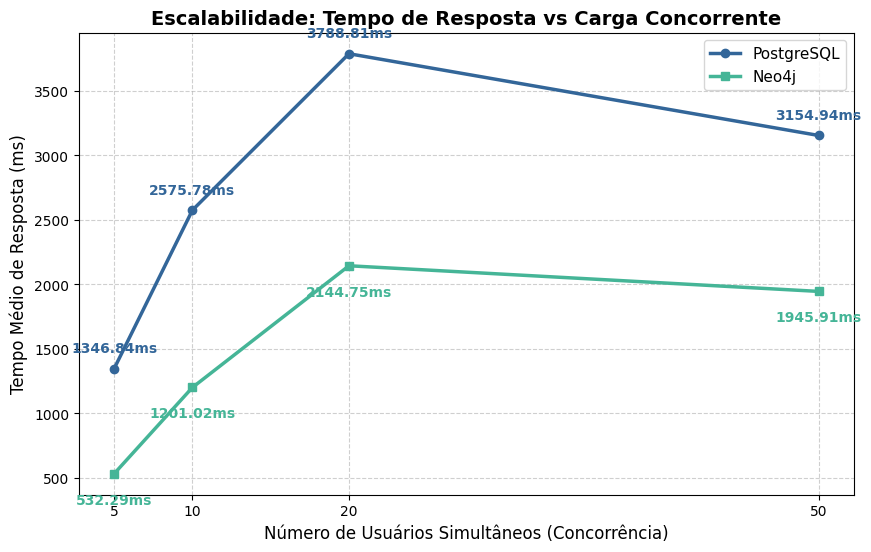
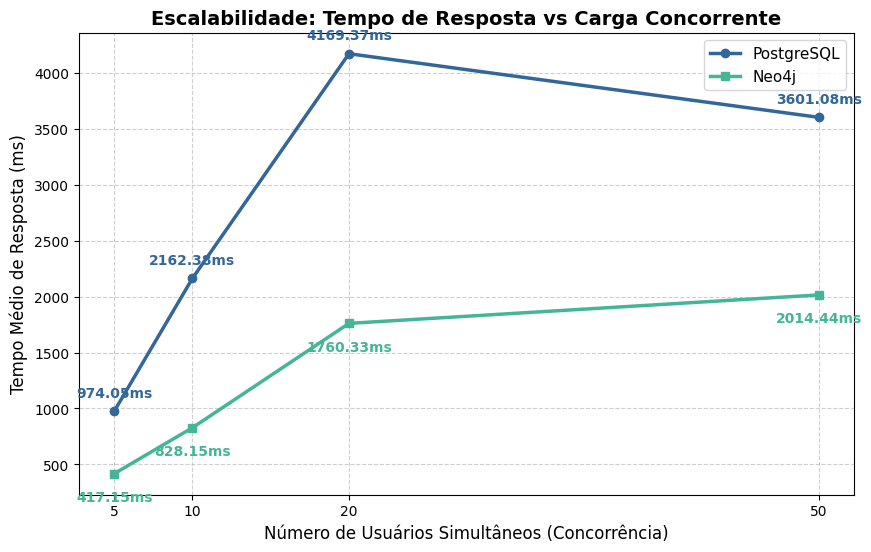
feat: conclusao dos graficos e do teste com k6

diff --git a/teste_k6.js b/teste_k6.js
@@ -1,0 +1,52 @@
+import http from 'k6/http';
+import { check, sleep } from 'k6';
+import { Trend } from 'k6/metrics';
+
+const tempoPostgres = new Trend('tempo_postgres');
+const tempoNeo4j = new Trend('tempo_neo4j');
+
+export const options = {
+    scenarios: {
+        teste_postgres: {
+            executor: 'constant-vus',
+            vus: 20,
+            duration: '30s',
+            exec: 'executarPostgres',
+        },
+        teste_neo4j: {
+            executor: 'constant-vus',
+            vus: 20,
+            duration: '30s',
+            startTime: '35s', 
+            exec: 'executarNeo4j',
+        },
+    },
+};
+
+export function executarPostgres() {
+    const userId = 1;
+    const urlPostgres = `http://127.0.0.1:8000/recomendar/colaborativo/postgres/${userId}`;
+    
+    const res = http.get(urlPostgres);
+    tempoPostgres.add(res.timings.duration);
+    
+    check(res, {
+        'Postgres status e 200': (r) => r.status === 200,
+    });
+    
+    sleep(0.1);
+}
+
+export function executarNeo4j() {
+    const userId = 1;
+    const urlNeo4j = `http://127.0.0.1:8000/recomendar/colaborativo/neo4j/${userId}`;
+    
+    const res = http.get(urlNeo4j);
+    tempoNeo4j.add(res.timings.duration);
+    
+    check(res, {
+        'Neo4j status e 200': (r) => r.status === 200,
+    });
+    
+    sleep(0.1);
+}
